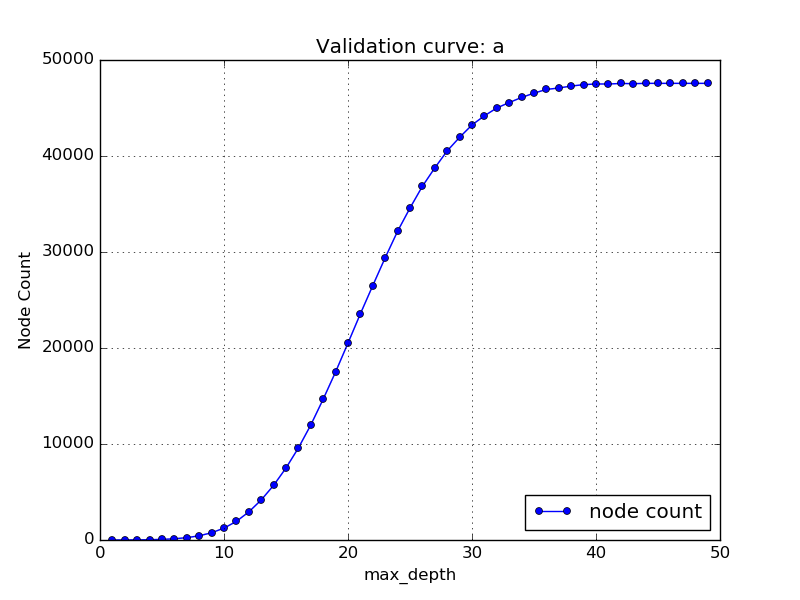
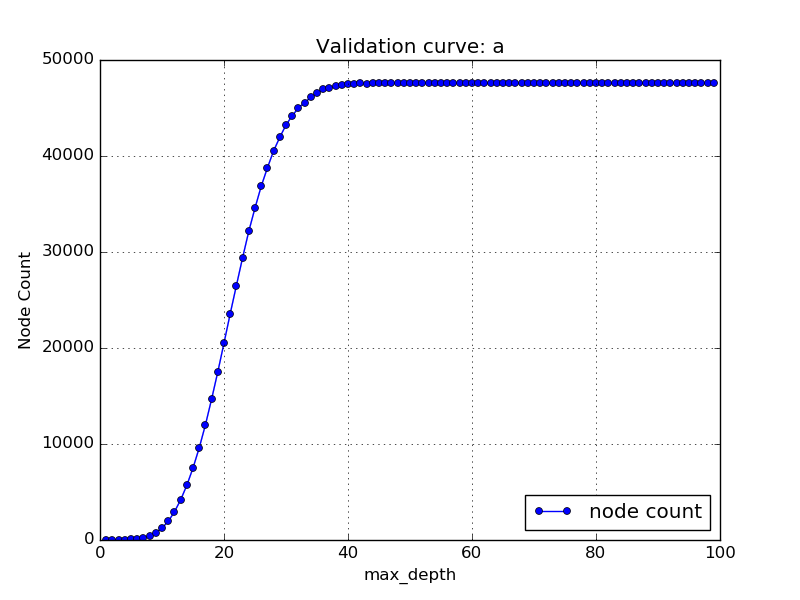
more running

diff --git a/Assignment1/validation_curves.py b/Assignment1/validation_curves.py
@@ -48,7 +48,7 @@ X_train, X_test, y_train, y_test = train_test_split(x,
 
 
 params_dict = {'min_impurity_split': np.arange(0, 0.5, 0.01),
-               'max_depth': np.arange(1, 50, 1),
+               'max_depth': np.arange(1, 100, 1),
                'min_samples_split': np.arange(1, 50, 1),
                'min_samples_leaf': np.arange(2, 50, 1),
                'min_weight_fraction_leaf': np.arange(0.0, 0.5, 0.05),
